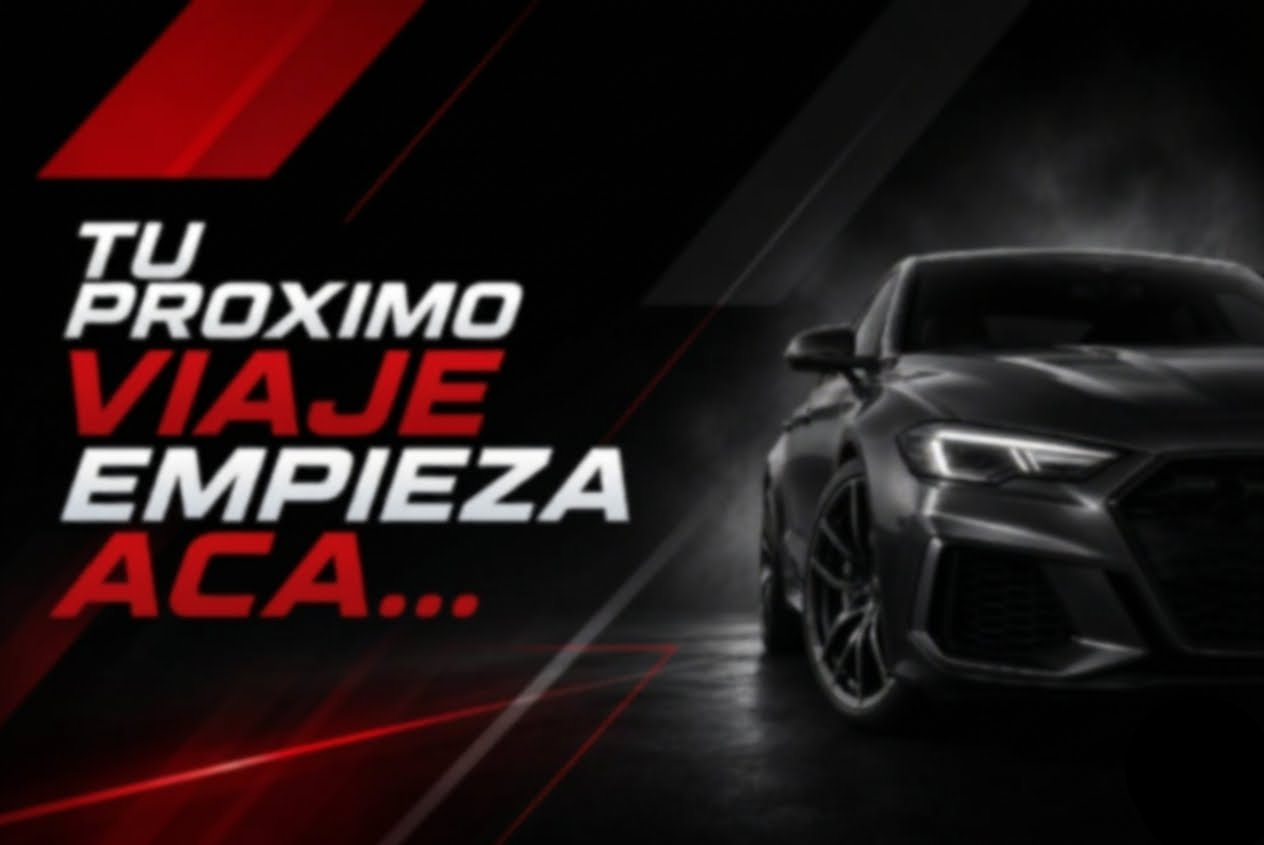
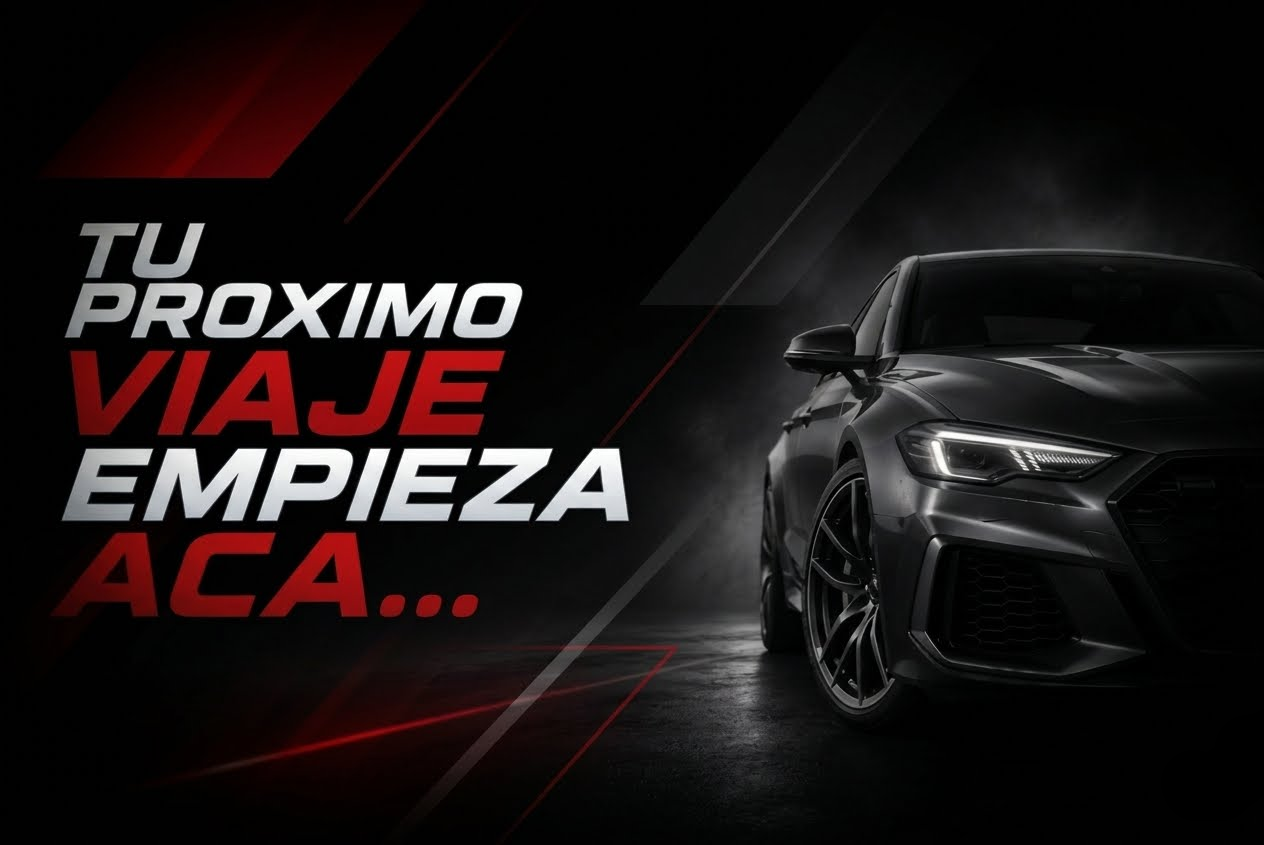
18

diff --git a/index.html b/index.html
@@ -35,5 +35,43 @@
     </div>
     <div id="imgfrase">
       <img src="img/imgfrase2.png" alt="imgfrase">
+
+      <footer>
+        <div id="colegio">
+        <h3>Colegio</h3>
+        <p><a href="https: //www.stamry.edu.ar/es/como-llegar-pilar-sede-pilar"
+          target="_blank">Saint Mary of the Hills</p>
+        <p>Dirección:Av. Parque, B1631 Zelaya, Provincia de Buenos Aires</a></p>
+     
+     
+      </div>
+      <div id="alumno">
+        <h3>Alumno:</h3>
+        <p><a href="mailto:alu.delcorpol@stmary.edu.ar">Luca Federico Del Corpo</a></p>
+        <p>Curso: 2M</p>
+     
+     
+      </div>
+      <div id="redes">
+        <h3>Redes</h3>
+     
+     
+     <a href="https://x.com/" target="_blank"> <img src="https://i.pinimg.com/736x/5e/7d/bb/5e7dbb535639cf4291fb03e70adfafd1.jpg" alt="red x"> </a>
+     
+     
+     <a href="https://www.instagram.com/" target="_blank"> <img src="https://static.vecteezy.com/system/resources/previews/018/930/413/original/instagram-logo-instagram-icon-transparent-free-png.png" alt="red instagram"> </a>
+     
+     
+     <a href="https://www.facebook.com/" target="_blank"> <img src="https://static.vecteezy.com/system/resources/previews/018/930/698/non_2x/facebook-logo-facebook-icon-transparent-free-png.png" alt="red facebook"> </a>
+     
+     
+     <a href="https://web.whatsapp.com/" target="_blank"> <img src="https://static.vecteezy.com/system/resources/previews/012/162/809/non_2x/whatsapp-logo-3d-render-free-png.png" alt="red whatsapp"> </a>
+     
+     
+     <a href="https://www.tiktok.com/explore" target="_blank"> <img src="https://static.vecteezy.com/system/resources/previews/018/930/463/original/tiktok-logo-tikok-icon-transparent-tikok-app-logo-free-png.png" alt="red tiktok"> </a>
+     
+     
+      </div>
+        </footer>
   </body>
 </html>

diff --git a/css/styles.css b/css/styles.css
@@ -61,11 +61,51 @@
         
 
      }
-     #imgfrase2 img {
+     #imgfrase img {
         width: 600px;
         display: block;
         margin: auto;
         padding: 1.5rem;
          }
+
+
+         footer {
+            background-color: #000;
+            color: white;
+            display: flex;
+            flex-wrap: wrap;
+            justify-content: space-between;
+            align-items: stretch;
+            gap: 10px;
+            padding: 10px;
+           }
+           #colegio,
+           #alumno,
+           #redes {
+            flex: 1;
+            min-width: 250px;
+            padding: 15px;
+           }
+           /* CUADROS */
+           #colegio {
+            background-color: red;
+           }
+           #alumno {
+            background-color: yellow;
+            color: black;
+           }
+           #redes {
+            background-color: lightseagreen;
+            display: flex;
+            justify-content: center;
+            align-items: center;
+            gap: 15px;
+           }
+           /* ICONOS */
+           #redes img {
+            width: 50px;
+            height: 50px;
+            object-fit: contain;
+           }
 
  
